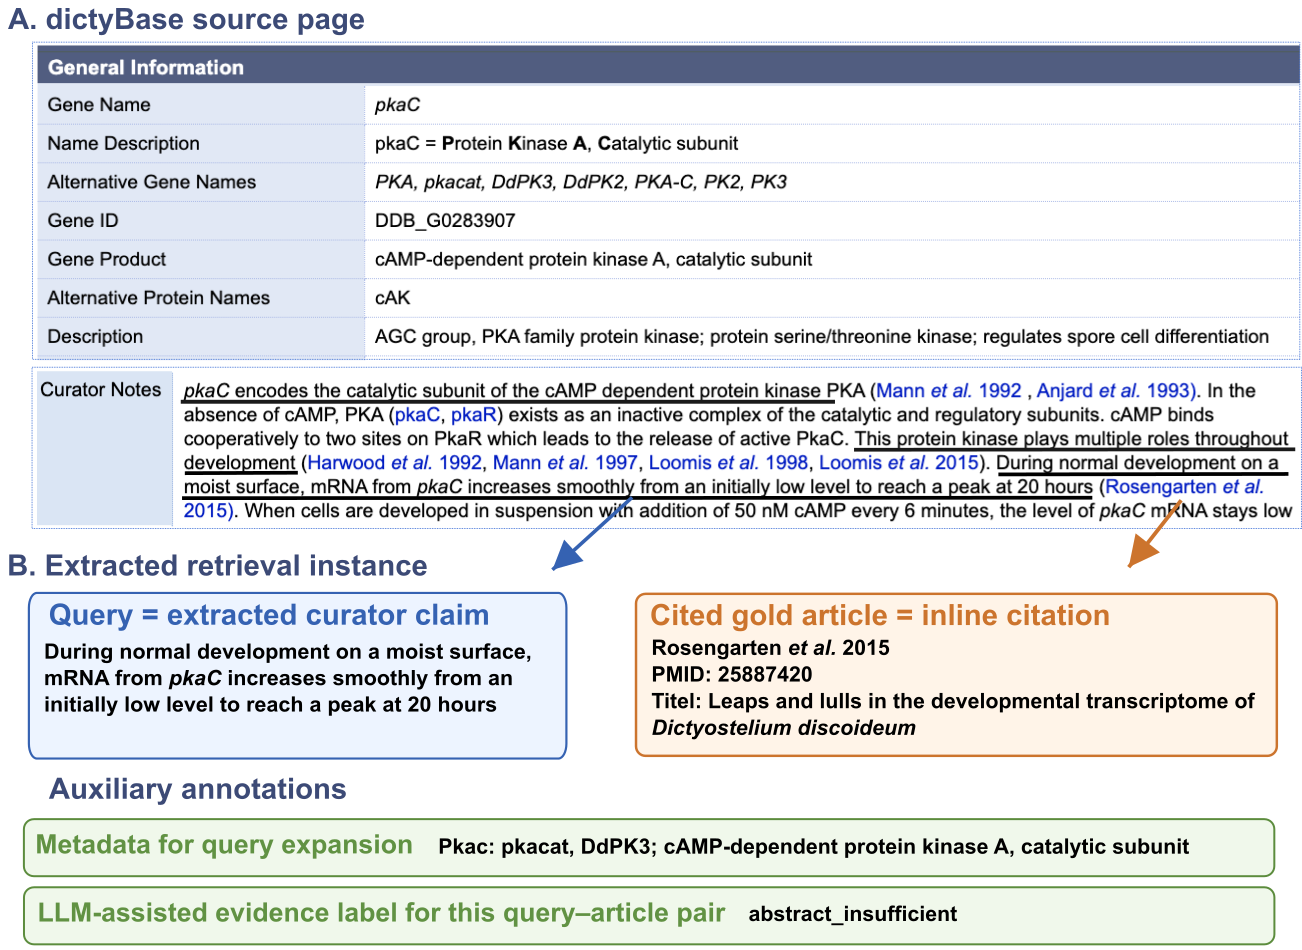
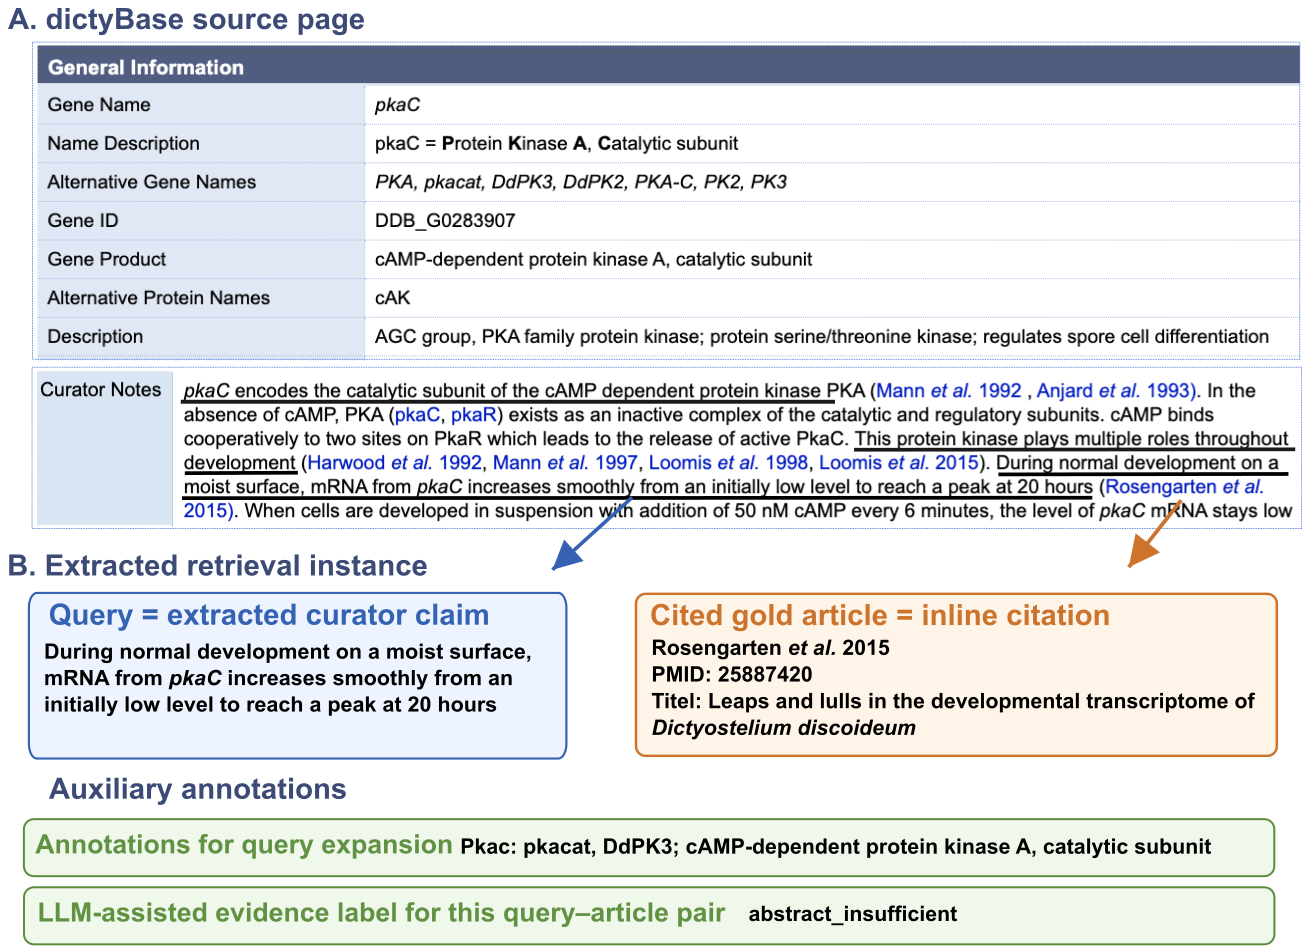
paper: split Table 1 counting units; camera-ready fixes
Table 1 mixed three counting units: the level rows counted
(claim, evidence-level) entries while the Total row counted distinct
claims, so neither the columns nor the has-PDF/no-PDF row added up.
Replace Total with two labelled rows -- claim--stratum entries
(1,857/1,642/215) and distinct claims (1,656/1,480/176) -- so every
arithmetic check closes; rename the stub head to "Evidence stratum" and
the first column "Full" to "All" (it read as "full text" beside
has-PDF).

Also correct the has-PDF definition in the Dataset section, which
described a per-claim split while the code, the Table 1 rows and the
Fig. 4 panels all apply it per stratum; add a worked example of the
pairs -> entries -> claims collapse; and move the scoring rule and
averaging unit out of Dataset into the Metrics subsection.

Housekeeping:
- mark Yun Wang as corresponding author (marvosym \Letter)
- drop unused multirow package
- rename fig_s2_per_query_rerank_delta.png to fig_s1_* to match its
  printed number; park the dropped baseline-depths figure as fig_unused_*
- normalise stratum vocabulary (queries -> claims/entries) in the
  full-text results and Table S2
- refresh stale per-query fractions in FIGURES.md (15.7/34.7/46.9,
  9.9/16.1/8.0), recomputed from the rerank runs
- updated Fig. 1 and intro wording

Changed region(s): [[0.0307, 0.8547, 0.9217, 0.9158]]

diff --git a/output/paper_figures/paper.tex b/output/paper_figures/paper.tex
@@ -5,8 +5,8 @@
 \usepackage{graphicx}
 \usepackage{booktabs}
 \usepackage{array}
-\usepackage{multirow}
 \usepackage{amsmath}
+\usepackage{marvosym}  % \Letter, marks the corresponding author
 \usepackage{float}
 \usepackage{placeins}
 \usepackage{url}
@@ -49,7 +49,7 @@
 \title{Benchmarking Literature Retrieval for a Model Organism: A \emph{Dictyostelium} Case Study}
 \titlerunning{Model-Organism Literature Retrieval: \emph{Dictyostelium}}
 
-\author{Yun Wang\inst{1}\orcidID{0000-0002-2441-4182} \and
+\author{Yun Wang\inst{1}\orcidID{0000-0002-2441-4182}\textsuperscript{(\Letter)} \and
 Gad Shaulsky\inst{2}\orcidID{0000-0002-0532-0551} \and
 Toma\v{z} Curk\inst{1}\orcidID{0000-0003-4888-7256} \and
 Bla\v{z} Zupan\inst{1,2}\orcidID{0000-0002-5864-7056}}
@@ -104,7 +104,7 @@ with additional developmental, experimental, or temporal context.
 
 In this paper, we construct a citation-derived retrieval benchmark from
 dictyBase~\cite{fey_one_2013} and use it to study literature retrieval for
-\emph{Dictyostelium}. We examine three questions: whether reranking adds value beyond strong keyword-based retrieval, whether curated gene annotations
+\emph{Dictyostelium}. We examine three questions: whether reranking adds value beyond strong keyword-based retrieval, whether curated annotations
 improve retrieval for compact claims, and how access to full-text evidence changes retrieval
 when abstracts are insufficient.
 
@@ -210,24 +210,27 @@ claim--article pair to indicate whether the cited abstract: (i) supports the det
 (ii) supports only the core statement---the main assertion (for example, that a gene is involved in a process) but not the accompanying details (such as a specific developmental stage, condition, or magnitude); or (iii) is insufficient, suggesting that 
 the abstract does not explicitly support the relevant relationship. The third label does not mark 
 the citation as irrelevant; rather, it identifies cases where the supporting 
-evidence may lie outside the abstract. The labeling prompt is released with the dataset and code. These labels define the strata for evaluating whether full-text retrieval helps at different levels of abstract evidence. We construct a full-text corpus for articles with accessible PDFs (1,124 cited articles); queries with at least one such PMID form the has-PDF subset, and those with none form the no-PDF subset. Table~\ref{tab:composition} reports the resulting composition by evidence level. Because one claim can cite multiple articles, the 1{,}656 claims comprise 2{,}028 claim--article pairs (1.22 per claim). Across these pairs, 41.6\% support the detailed claim, 37.6\% support the core claim, and 20.8\% are insufficient; claim counts overlap across evidence levels because cited articles can carry different labels.
+evidence may lie outside the abstract. The labeling prompt is released with the dataset and code. These labels define the strata for evaluating whether full-text retrieval helps at different levels of abstract evidence. Labels attach to claim--article pairs: because one claim can cite multiple articles, the 1{,}656 claims comprise 2{,}028 claim--article pairs (1.22 per claim), of which 41.6\% support the detailed claim, 37.6\% support the core claim, and 20.8\% are insufficient. A claim enters every stratum whose label its cited articles carry: a claim citing three articles, two labelled \emph{core} and one \emph{insufficient}, contributes three pairs, two claim--stratum entries, and one distinct claim. We construct a full-text corpus for articles with accessible PDFs (1,124 cited articles); within a stratum, a claim is has-PDF if at least one of its articles carrying that label has full text, and no-PDF otherwise. Table~\ref{tab:composition} reports the composition.
 
 \begin{table}[!htbp]
 \centering
-\caption{Benchmark composition by abstract-evidence level, in distinct claims.
-Within each level, a claim is has-PDF if any of its cited articles has full text
-and no-PDF otherwise.}
+\caption{Benchmark composition by abstract-evidence stratum. Strata overlap
+because a claim enters each stratum represented among its cited articles. For
+claim--stratum entries, has-PDF means at least one cited article carrying that
+label has full text; for distinct claims, at least one cited article has full
+text.}
 \label{tab:composition}
 \setlength{\tabcolsep}{6pt}
 \begin{tabular}{@{}lrrr@{}}
 \toprule
-Evidence level & Full & has-PDF & no-PDF \\
+Evidence stratum & All & has-PDF & no-PDF \\
 \midrule
 \emph{abstract supports detail} & 816 & 707 & 109 \\
 \emph{abstract supports core}   & 654 & 585 &  69 \\
 \emph{abstract insufficient}    & 387 & 350 &  37 \\
 \midrule
-Total & 1{,}656 & 1{,}480 & 210 \\
+Claim--stratum entries & 1{,}857 & 1{,}642 & 215 \\
+Distinct claims        & 1{,}656 & 1{,}480 & 176 \\
 \bottomrule
 \end{tabular}
 \end{table}
@@ -271,11 +274,11 @@ We evaluate all systems under fixed retrieval depths, fusion settings, and signi
 
 \subsection{Metrics, candidate depths, and significance testing}
 \label{sec:metrics_significance}
-We assess first-stage retrieval with Recall@K, which measures whether a cited article appears among the top $K$ retrieved candidates, and the final ranking with MRR@K, which gives greater weight to placing the first cited article near the top. Because our judgments are derived from inline citations rather than exhaustive relevance assessments, MRR@10 is our primary final-ranking metric and should be interpreted as measuring retrieval of known cited articles, not retrieval of all relevant literature.
+We assess first-stage retrieval with Recall@K, which measures whether a cited article appears among the top $K$ retrieved candidates, and the final ranking with MRR@K, which gives greater weight to placing the first cited article near the top. Because our judgments are derived from inline citations rather than exhaustive relevance assessments, MRR@10 is our primary final-ranking metric and should be interpreted as measuring retrieval of known cited articles, not retrieval of all relevant literature. In stratified comparisons, each claim is scored once per evidence stratum against only its cited articles carrying that label, so results are averaged over claim--stratum entries.
 
 Pipeline parameters were fixed before the dictyBase experiments and were not tuned on this dataset. We retrieve 5,000 candidates per retriever, fuse the BM25 and dense lists, and pass the top 1,000 fused candidates to the reranker as a fixed, recall-oriented candidate depth.
 
-For significance testing, we use paired bootstrap resampling over queries with B = 10,000 samples. We report 95\% percentile confidence intervals for per-query MRR@10 differences against the relevant baseline.
+For significance testing, we use paired bootstrap resampling over queries (within a stratum for stratified comparisons) with B = 10,000 samples. We report 95\% percentile confidence intervals for per-query MRR@10 differences against the relevant baseline.
 
 \subsection{Systems compared}
 \label{sec:systems_compared}
@@ -304,11 +307,11 @@ only a small, non-significant gain. Clear improvements appear for the biomedical
 MedCPT reranker and the high-capacity BGE-Gemma model, which improve MRR@10 by
 +5.7 and +11.4 percentage points, respectively. The external Ragnarok
 BM25+RankZephyr reference remains below BM25, further suggesting that gains
-depend on reranker fit rather than on adding a reranking stage alone.
+depend on reranker fit.
 
 \begin{table}[!htbp]
 \centering
-\caption{Ranker comparison on the full dataset (1,656 queries). Model size is the approximate parameter count for neural rerankers; ``--'' marks systems without one. $\Delta$ vs.\ BM25 is the MRR@10 difference from the BM25 baseline in percentage points, with brackets showing 95\% paired-bootstrap confidence intervals.}
+\caption{Ranker comparison on all 1,656 claims. Model size is the approximate parameter count for neural rerankers; ``--'' marks systems without one. $\Delta$ vs.\ BM25 is the MRR@10 difference from the BM25 baseline in percentage points, with brackets showing 95\% paired-bootstrap confidence intervals.}
 \label{tab:ranker_comparison}
 \scriptsize
 \setlength{\tabcolsep}{3pt}
@@ -357,7 +360,7 @@ A clear example is the query ``\emph{DetA} is involved in cell-type specificatio
 \label{sec:results_fulltext}
 The previous experiments used the abstract corpus. This setting is limiting for claims where the cited abstracts do not contain sufficient evidence. We therefore evaluate the same retrieval-and-reranking pipeline on the chunked full-text corpus variant (Section~\ref{sec:fulltext_variant}).
 
-We stratify queries by the evidence-level labels introduced in the Dataset section: \emph{abstract supports detail}, \emph{abstract supports core}, and \emph{abstract insufficient}, and report the main comparison on the has-PDF subset, whose cited articles have chunked full text (Fig.~\ref{fig:evidence_haspdf}).
+We stratify claims by the evidence-level labels introduced in the Dataset section: \emph{abstract supports detail}, \emph{abstract supports core}, and \emph{abstract insufficient}, and report the main comparison on the has-PDF subset of each stratum, in which at least one cited article carrying that label has chunked full text (Fig.~\ref{fig:evidence_haspdf}).
 
 \begin{figure}[!htbp]
 \centering
@@ -370,9 +373,9 @@ The main effect of full-text chunks is at the retrieval stage. For abstract-insu
 
 The ranking stage also improves, although the evidence-level gap remains (Fig.~\ref{fig:evidence_haspdf}, lower panel). With BGE-m3, post-rerank MRR@10 on abstract-insufficient claims more than doubles from 0.16 to 0.39, yet stays well below the two abstract-supported groups under the same chunked setting. The gain is significant across all three strata (95\% paired-bootstrap CIs above zero; Table~\ref{tab:s2_evidence_haspdf_full}).
 
-At the per-query level, chunked full-text retrieval improved many more abstract-insufficient queries than it hurt (46.9\% improved, 8.0\% decreased). A typical case is the query ``\emph{gefE} null mutants are less sensitive to DIF than wild type.'' In the abstract-only corpus, the cited article ranked 54th because the abstract gives broad developmental context but omits the specific DIF-sensitivity evidence. With full-text chunks, the cited article ranked first because the relevant evidence appears in the article body.
+At the per-query level, chunked full-text retrieval improved many more abstract-insufficient claims than it hurt (46.9\% improved, 8.0\% decreased). A typical case is the query ``\emph{gefE} null mutants are less sensitive to DIF than wild type.'' In the abstract-only corpus, the cited article ranked 54th because the abstract gives broad developmental context but omits the specific DIF-sensitivity evidence. With full-text chunks, the cited article ranked first because the relevant evidence appears in the article body.
 
-This benefit is concentrated among queries whose cited set gains full-text representation. For the complementary no-PDF queries, none of whose cited articles contributes body chunks, adding chunks leaves Recall@1000 unchanged or lower and significantly reduces post-rerank MRR@10 in all three strata (Table~\ref{tab:s2_evidence_haspdf_full}). These relevant articles gain no additional retrieval units but must compete against the added chunks. We return to this coverage trade-off in the Discussion.
+This benefit is concentrated where the cited articles carrying the label gain full-text representation. For the complementary no-PDF entries, whose cited articles carrying that label contribute no body chunks, adding chunks leaves Recall@1000 unchanged or lower and significantly reduces post-rerank MRR@10 in all three strata (Table~\ref{tab:s2_evidence_haspdf_full}). These relevant articles gain no additional retrieval units but must compete against the added chunks. We return to this coverage trade-off in the Discussion.
 
 \FloatBarrier
 \section{Discussion}
@@ -391,7 +394,8 @@ Several limitations remain. The queries were automatically extracted, cleaned, a
 \section*{Appendix}
 \FloatBarrier
 % The supplement figure uses page-float placement so the supplement page is
-% not crowded. (Former Fig S1 (baseline depths) and S3/S4 were dropped; S3's
+% not crowded. (The old baseline-depths figure and S3/S4 were dropped, and the
+% remaining supplement figure was renamed fig_s1_* to match its printed number; S3's
 % content now lives in Table~\ref{tab:s2_evidence_haspdf_full}.)
 \setcounter{figure}{0}
 \renewcommand{\thefigure}{S\arabic{figure}}
@@ -407,7 +411,7 @@ Evidence-level labels are produced once using a fixed Llama-3.3 prompt schema~\c
 
 \begin{figure}[H]
 \centering
-\includegraphicsifexists[width=0.88\linewidth,height=0.34\textheight,keepaspectratio]{Figures/fig_s2_per_query_rerank_delta.png}
+\includegraphicsifexists[width=0.88\linewidth,height=0.34\textheight,keepaspectratio]{Figures/fig_s1_per_query_rerank_delta.png}
 \caption{Per-query reranking effect relative to BM25. $\Delta$MRR@10 is computed as reranker minus BM25 and grouped as hurt, helped, or near tie using thresholds of $\pm0.025$. Similar aggregate scores mask different query-level behavior: MiniLM-L12 is mostly harmful, BGE-m3 is balanced, and MedCPT and BGE-Gemma shift more queries toward positive deltas.}
 \label{fig:s1}
 \end{figure}
@@ -443,13 +447,13 @@ BGE-Gemma & 0.694 & 0.703 ($+0.9$ [$-0.5$,$+2.3$])$^{\dag}$ & 0.701 ($+0.7$ [$-0
 \begin{table}[H]
   \centering
   \caption{Recall@1000 and BGE-m3 MRR@10 for abstract-only (Abs) versus
-  abstract-plus-chunks (+Chk) retrieval, by abstract-evidence level and
-  full-text coverage. Queries are split by coverage---has-PDF (at least one
-  cited article with chunked full text) versus no-PDF (none)---and scored on the
-  same all-query runs against their covered and uncovered citations,
-  respectively. In each +Chk column, parentheses give the change from Abs
+  abstract-plus-chunks (+Chk) retrieval, by abstract-evidence stratum and
+  full-text coverage. Within each stratum, claim--stratum entries are split by
+  coverage---has-PDF if at least one cited article carrying that label has
+  chunked full text, and no-PDF otherwise---and scored on the same all-query
+  runs against the cited articles carrying that label. In each +Chk column, parentheses give the change from Abs
   ($\Delta$, percentage points) with 95\% paired-bootstrap confidence intervals.
-  Stratum sizes are given in Table~\ref{tab:composition}; strata may overlap because cited articles of one claim can carry different labels.}
+  Stratum sizes are given in Table~\ref{tab:composition}.}
   \label{tab:s2_evidence_haspdf_full}
   \scriptsize
   \setlength{\tabcolsep}{3pt}
@@ -458,10 +462,10 @@ BGE-Gemma & 0.694 & 0.703 ($+0.9$ [$-0.5$,$+2.3$])$^{\dag}$ & 0.701 ($+0.7$ [$-0
    & \multicolumn{2}{c}{R@1000}
      & \multicolumn{2}{c}{MRR@10} \\
   \cmidrule(lr){2-3}\cmidrule(l){4-5}
-  Evidence level & Abs & +Chk ($\Delta$ [95\% CI]) & Abs
+  Evidence stratum & Abs & +Chk ($\Delta$ [95\% CI]) & Abs
     & +Chk ($\Delta$ [95\% CI]) \\
   \midrule
-  \multicolumn{5}{@{}l}{\emph{has-PDF queries}} \\
+  \multicolumn{5}{@{}l}{\emph{has-PDF entries}} \\
   \emph{abstract supports detail}
     & 0.993 & 0.997 ($+0.4$ [$-0.1$,$+1.1$]) & 0.802
     & 0.843 ($+4.2$ [$+2.3$,$+6.2$]) \\
@@ -472,7 +476,7 @@ BGE-Gemma & 0.694 & 0.703 ($+0.9$ [$-0.5$,$+2.3$])$^{\dag}$ & 0.701 ($+0.7$ [$-0
     & 0.784 & 0.972 ($+18.8$ [$+14.8$,$+23.0$]) & 0.161
     & 0.385 ($+22.5$ [$+18.5$,$+26.4$]) \\
   \addlinespace
-  \multicolumn{5}{@{}l}{\emph{no-PDF queries}} \\
+  \multicolumn{5}{@{}l}{\emph{no-PDF entries}} \\
   \emph{abstract supports detail}
     & 1.000 & 1.000 ($0.0$) & 0.815
     & 0.731 ($-8.4$ [$-12.6$,$-4.6$]) \\

diff --git a/output/paper_figures/FIGURES.md b/output/paper_figures/FIGURES.md
@@ -30,13 +30,14 @@ Manuscript figure numbers differ from the file numbers. `fig3_main_ranker_compar
 
 | Paper | File | Source | Description |
 |---|---|---|---|
-| Fig S1 | `Figures/fig_s1_baseline_depths.png` | `notebooks/report_7a.py` | Two-stage pipeline illustration on the full goldset (n=1656). **Left** = Stage-1 mean Recall@K (BM25, Dense, BM25+Dense fusion) up to K=2000 — recall-focused first stage. **Right** = Stage-2 MRR@K (K≤50) for the fusion baseline vs BGE-m3 — ranking-focused second stage. Justifies the recall-then-rerank split: fusion already reaches ~0.97 recall by K=2000 while the reranker lifts MRR from ~0.57 to ~0.61. |
-| Fig S2 | `Figures/fig_s2_per_query_rerank_delta.png` | `notebooks/ragnarok_comparison.py` | Per-query MRR delta after reranking — distribution of gains/losses. |
+| Fig S1 | `Figures/fig_s1_per_query_rerank_delta.png` | `notebooks/ragnarok_comparison.py` | Per-query MRR delta after reranking — distribution of gains/losses. |
 
 **Generated but not in the current manuscript** (still produced for diagnostic use):
 
+- `Figures/fig_unused_baseline_depths.png` (`notebooks/report_7a.py`) — two-stage pipeline illustration on the full goldset (n=1656). **Left** = Stage-1 mean Recall@K (BM25, Dense, BM25+Dense fusion) up to K=2000 — recall-focused first stage. **Right** = Stage-2 MRR@K (K≤50) for the fusion baseline vs BGE-m3 — ranking-focused second stage. Justifies the recall-then-rerank split: fusion already reaches ~0.97 recall by K=2000 while the reranker lifts MRR from ~0.57 to ~0.61. Was Fig S1 in an earlier draft; dropped for space, which is why the remaining supplement figure was renamed `fig_s1_*`.
+
 - `fig_s3_evidence_level_full_goldset.png` (`notebooks/report_7a.py`) — full-dataset evidence-level retrieval/rerank. Table S2 now reports the has-PDF subset alongside its no-PDF complement instead of the full-dataset blend, saving a figure of space.
-- `fig_s4_per_query_chunked_delta_haspdf.png` (`notebooks/report_7a.py` §15) — per-query Δ MRR@10 (chunked − abstract) by evidence level, BGE-m3, has-PDF subset (1×3 panels; per-bucket n = 707 / 585 / 350 across 1,480 unique queries). Helped/hurt/unchanged decomposition of the chunked-corpus gain. Helped fraction grows monotonically with evidence difficulty (15.4% / 34.7% / 46.6%); hurt fraction is non-trivial on the easier buckets (10.0% / 16.2%) but small on `abstract_insufficient` (8.0%). The PNG is no longer tracked in this directory.
+- `fig_s4_per_query_chunked_delta_haspdf.png` (`notebooks/report_7a.py` §15) — per-query Δ MRR@10 (chunked − abstract) by evidence level, BGE-m3, has-PDF subset (1×3 panels; per-bucket n = 707 / 585 / 350 across 1,480 unique queries). Helped/hurt/unchanged decomposition of the chunked-corpus gain. Helped fraction grows monotonically with evidence difficulty (15.7% / 34.7% / 46.9%); hurt fraction is non-trivial on the easier buckets (9.9% / 16.1%) but small on `abstract_insufficient` (8.0%). The PNG is no longer tracked in this directory.
 
 ## Conventions
 
